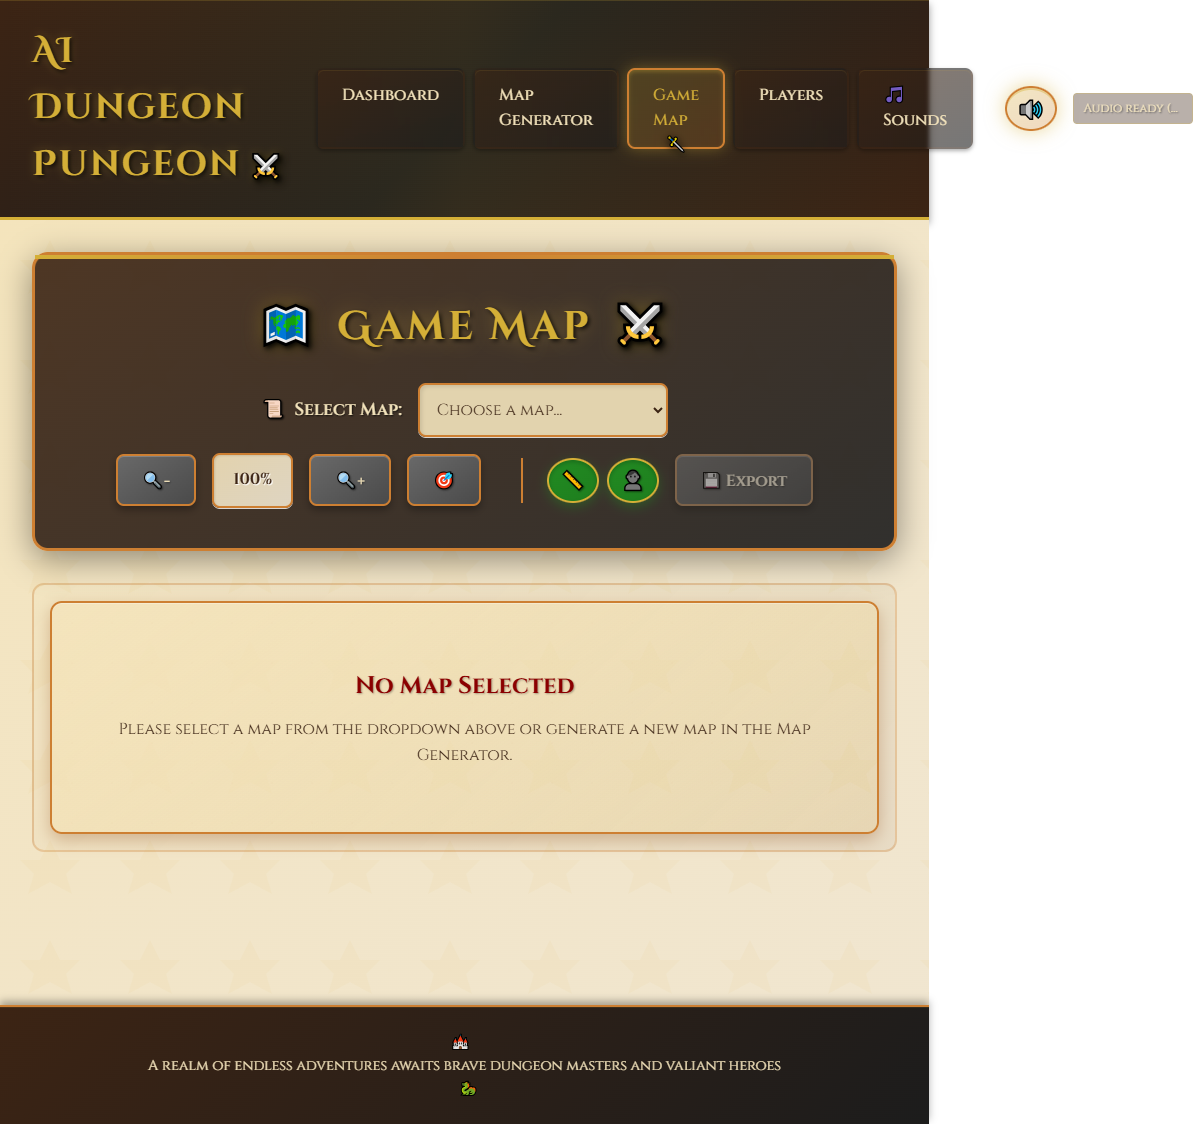
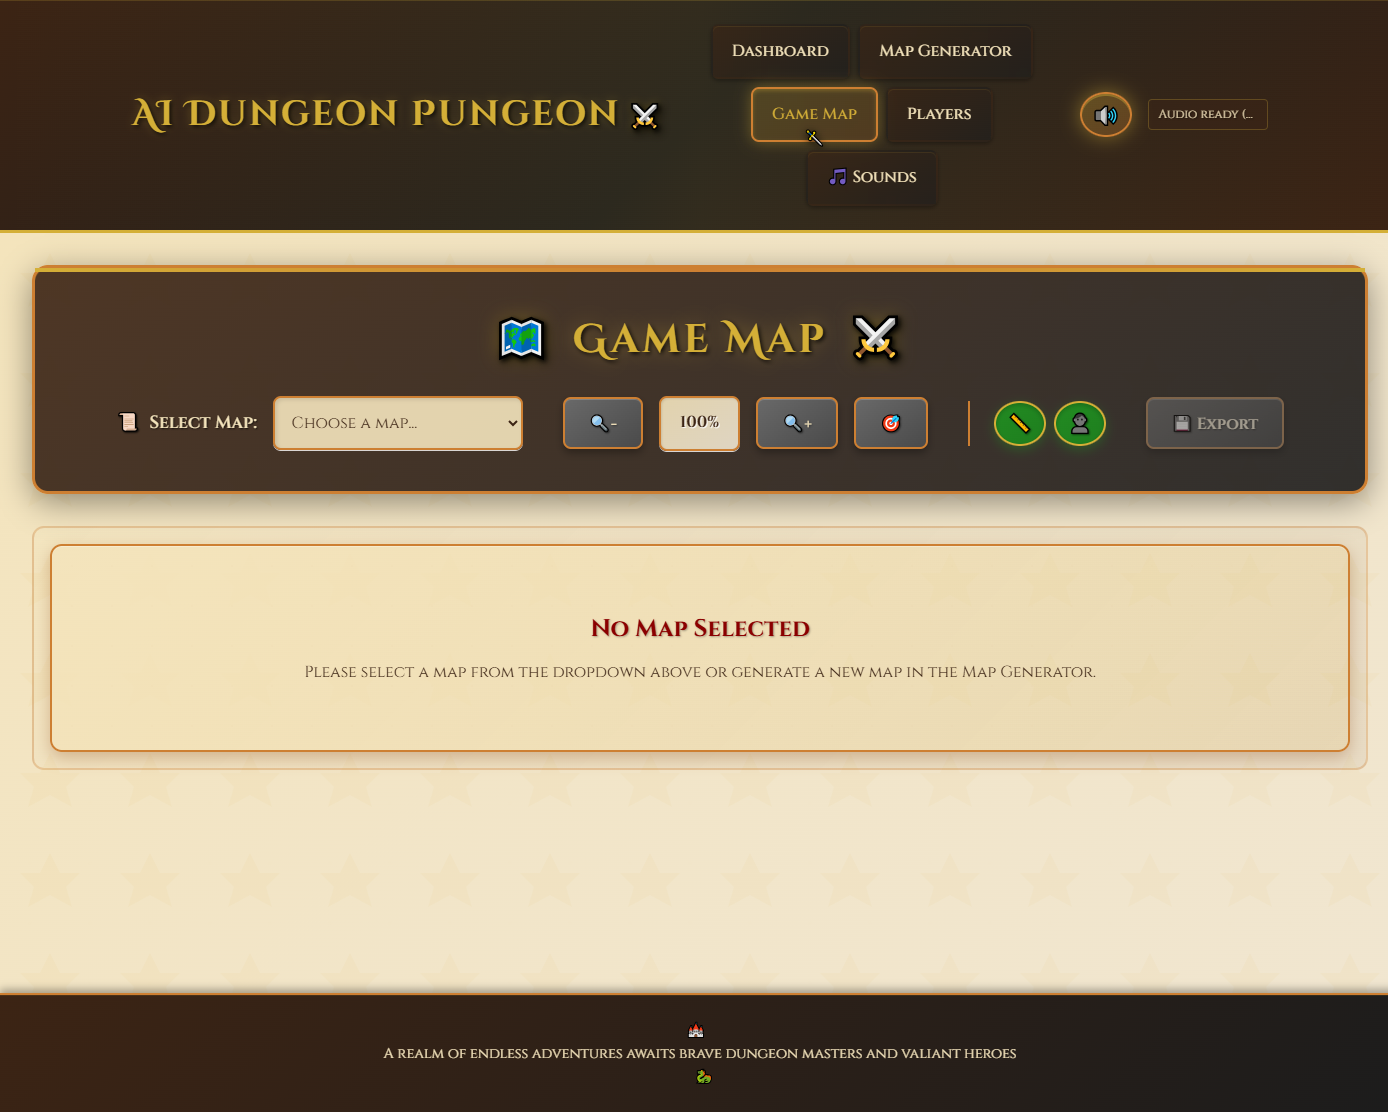
fix: Improve navigation layout and update screenshots
- Fix responsive navigation wrapping and viewport issues
- Add flex-wrap and min-width properties to prevent menu overflow
- Improve responsive breakpoints for better mobile navigation
- Update all screenshots with proper navigation display
- Ensure navigation buttons stay visible at all screen sizes
- Better centering and spacing for header components

diff --git a/src/app/app.css b/src/app/app.css
@@ -86,12 +86,15 @@
   gap: 0.5rem;
   flex: 1;
   justify-content: center;
+  flex-wrap: wrap;
+  align-items: center;
+  min-width: 0; /* Prevent flex overflow */
 }
 
 .main-nav a {
   color: var(--parchment);
   text-decoration: none;
-  padding: 0.8rem 1.5rem;
+  padding: 0.8rem 1.2rem;
   border: 2px solid transparent;
   border-radius: 8px;
   transition: all 0.3s ease;
@@ -107,6 +110,8 @@
   box-shadow: 
     inset 0 1px 0 rgba(212, 175, 55, 0.1),
     0 2px 4px rgba(0, 0, 0, 0.3);
+  white-space: nowrap;
+  flex-shrink: 0;
 }
 
 .main-nav a::before {
@@ -306,28 +311,35 @@
     flex-direction: column;
     gap: 1rem;
     padding: 1rem;
+    align-items: center;
   }
   
   .app-title {
     font-size: 1.8rem;
     text-align: center;
+    order: 0;
   }
   
   .main-nav {
     order: 1;
     flex-wrap: wrap;
     justify-content: center;
-    gap: 0.3rem;
+    gap: 0.4rem;
+    width: 100%;
+    max-width: 100%;
   }
   
   .main-nav a {
     padding: 0.6rem 1rem;
-    font-size: 0.9rem;
+    font-size: 0.85rem;
+    flex-shrink: 1;
+    min-width: 0;
   }
   
   .header-controls {
     order: 2;
     justify-content: center;
+    flex-shrink: 0;
   }
   
   .audio-status {
@@ -337,8 +349,14 @@
 }
 
 @media (max-width: 480px) {
+  .header-content {
+    padding: 0.75rem;
+    gap: 0.75rem;
+  }
+  
   .app-title {
-    font-size: 1.5rem;
+    font-size: 1.4rem;
+    letter-spacing: 1px;
   }
   
   .main-nav {
@@ -346,8 +364,13 @@
   }
   
   .main-nav a {
-    padding: 0.5rem 0.8rem;
-    font-size: 0.8rem;
+    padding: 0.5rem 0.7rem;
+    font-size: 0.75rem;
+    letter-spacing: 0;
+  }
+  
+  .header-controls {
+    gap: 0.5rem;
   }
   
   .audio-toggle {
